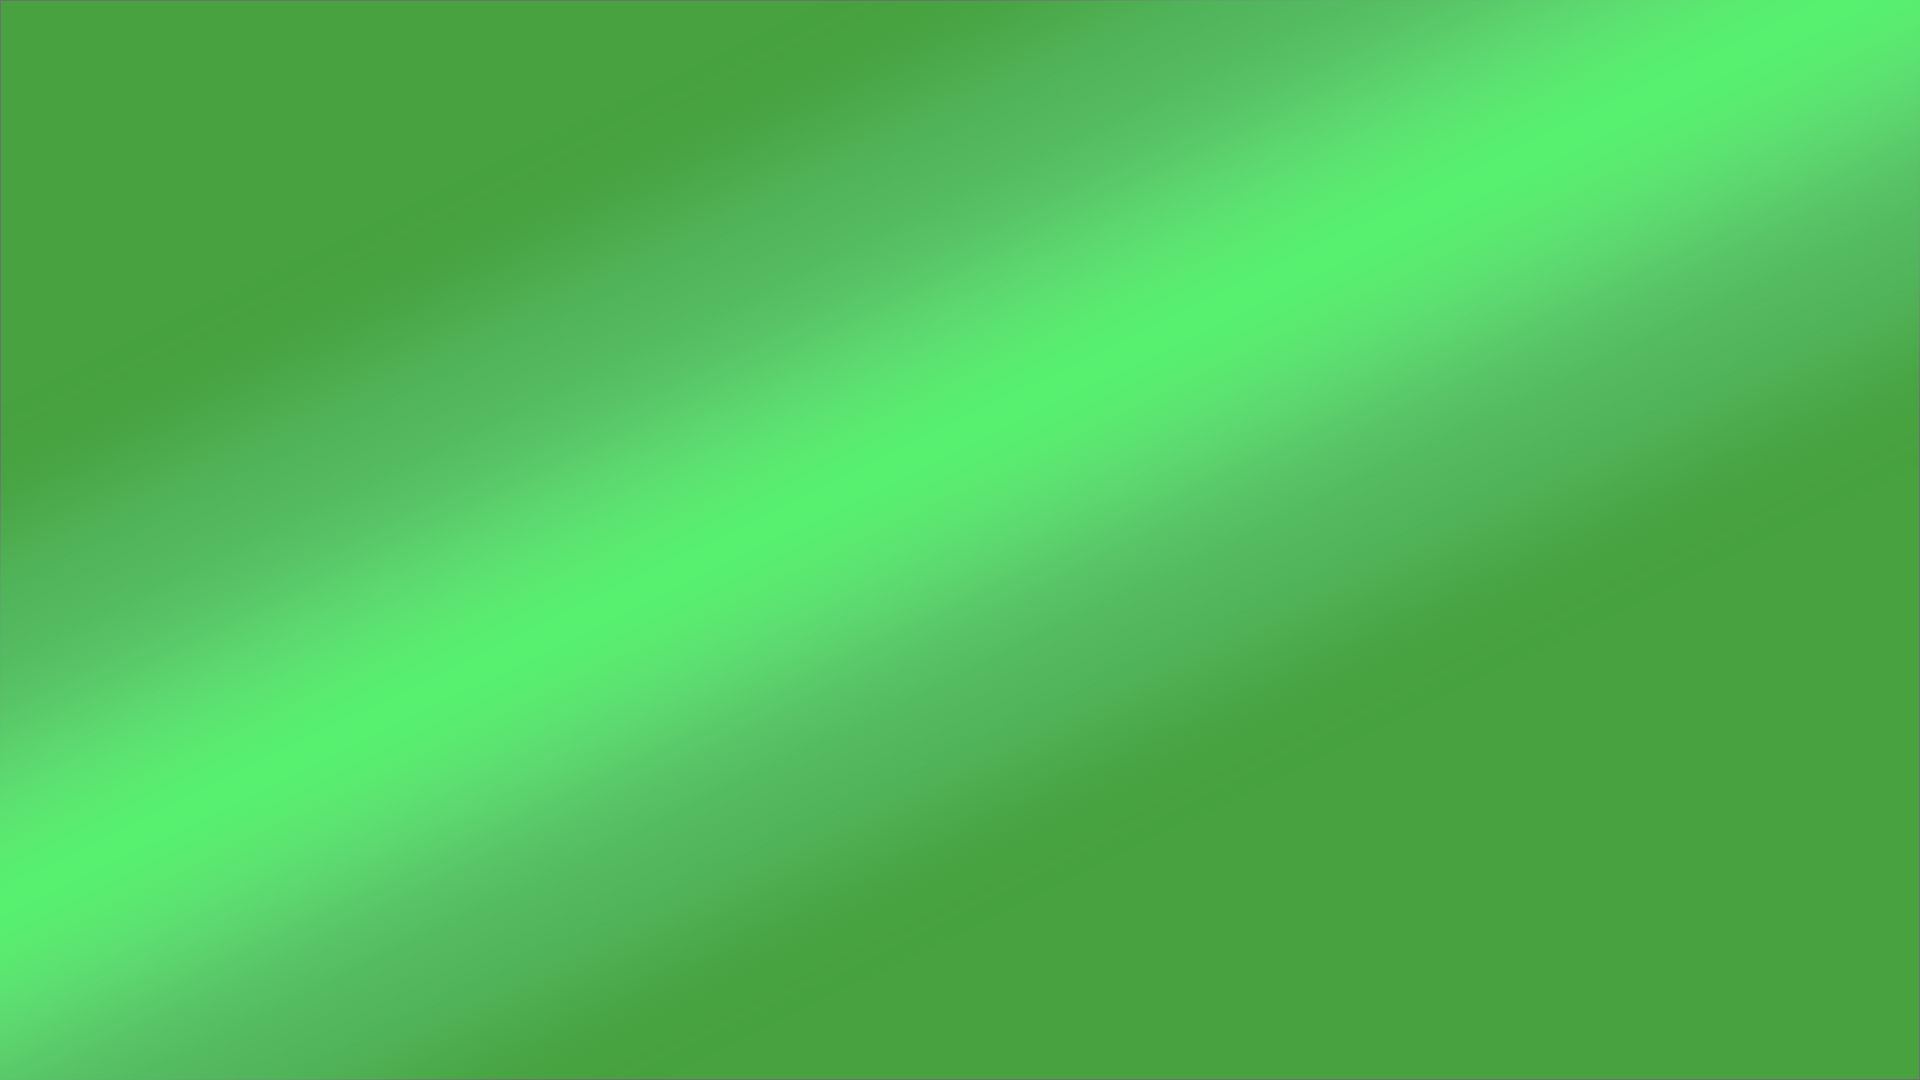
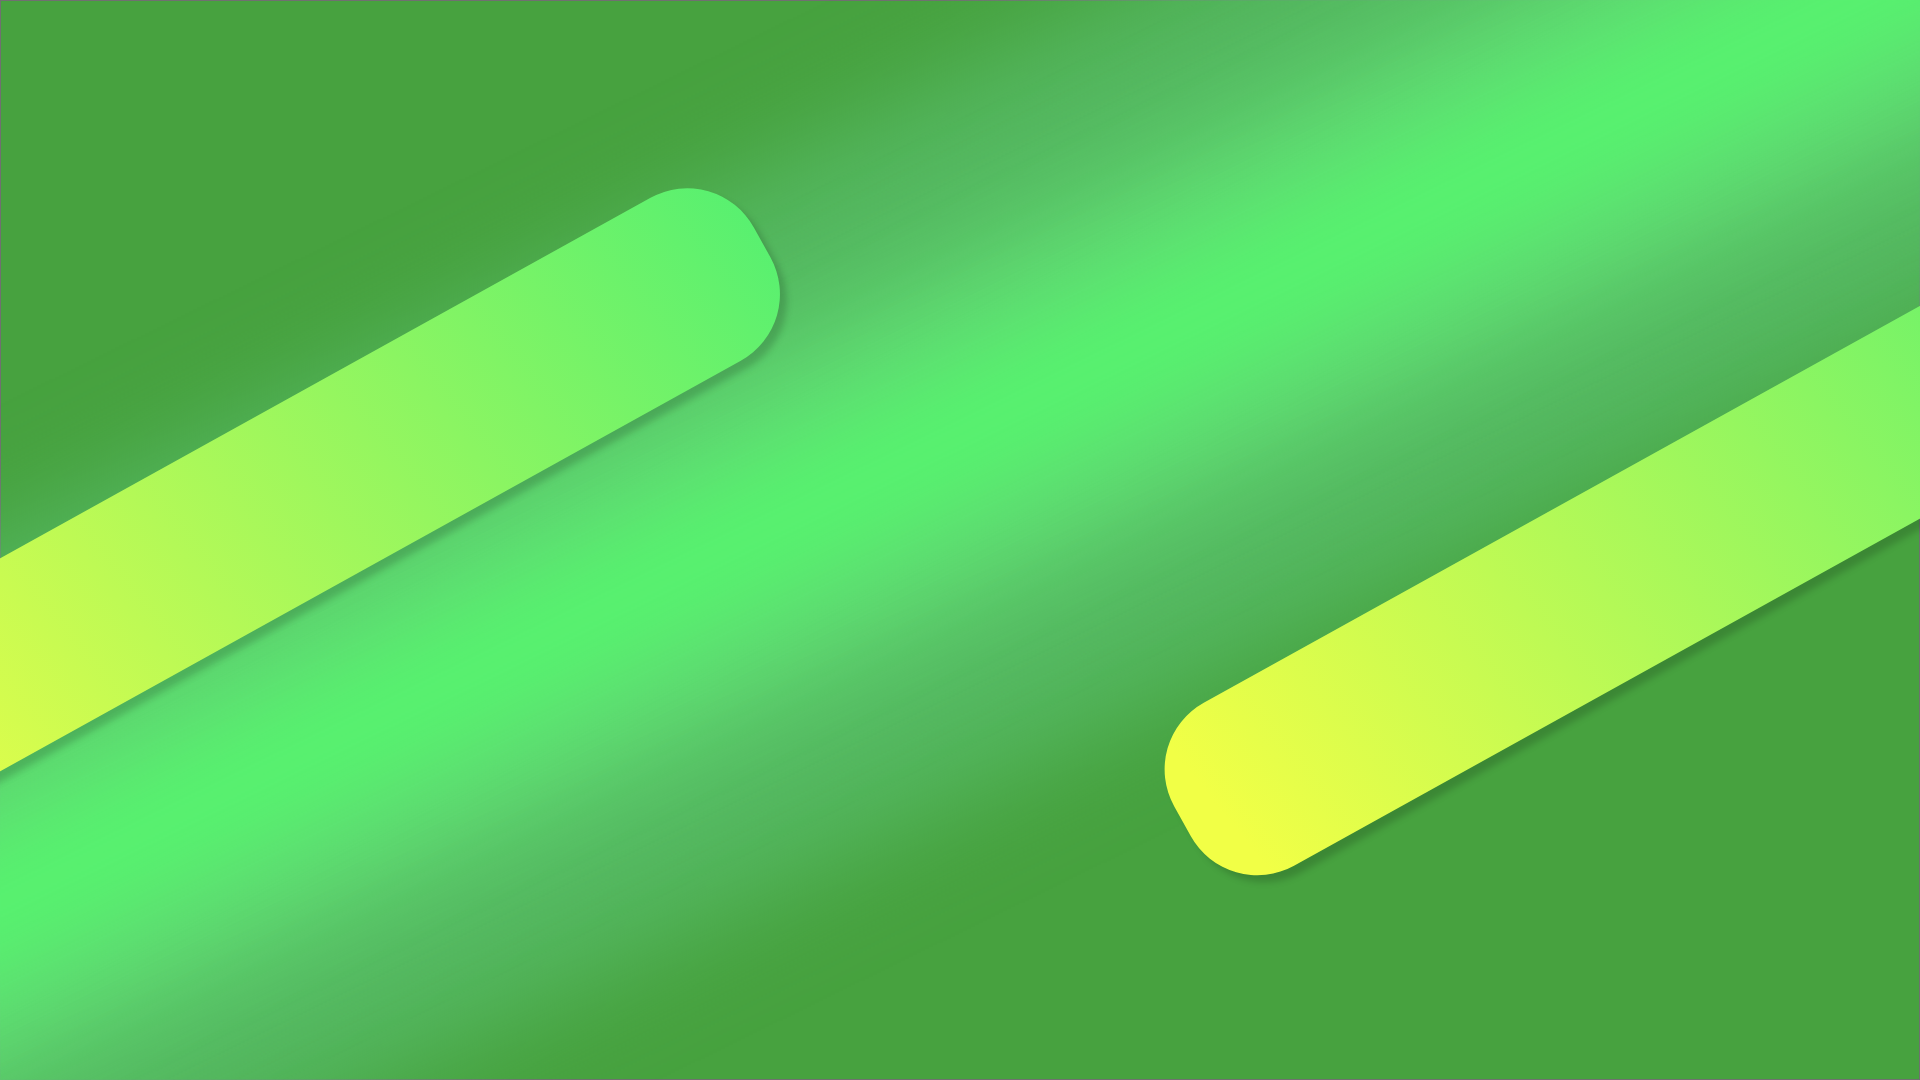
added shadows, fixed copy

Changed region(s): [[0.0, 0.1528, 0.4062, 0.7333], [0.5938, 0.275, 1.0, 0.825]]

diff --git a/index.html b/index.html
@@ -27,7 +27,7 @@
       <div id="hero">
         <h1 class="hero-title">Hi👋, I'm</h1>
         <h1 class="hero-title">Louis Mille.</h1>
-        <p class="subtitle">Shipping amazing web applications for 5 years.</p>
+        <h2>Shipping amazing web applications for 5 years.</h2>
         <div id="hero-buttons">
           <button class="cta-button" href="#home">Hire me 🚀</button>
           <a href="https://github.com/walegg" target="_blank">
@@ -59,8 +59,8 @@
         <h2>M.E.R.N Full Stack Developer</h2>
         <br />
         <p>
-          🚀 Experienced MERN Full-Stack Developer Ready to Elevate Your
-          Projects!🚀
+          🚀 Experienced MERN Full-Stack Developer ready to elevate your
+          projects!🚀
         </p>
         <br />
         <h2>Hello there!</h2>
@@ -72,7 +72,7 @@
           experience, I bring a wealth of knowledge to the table and a track
           record of delivering high-quality solutions.<br /><br />
         </p>
-        <h2>🔧 Technical Skills:</h2>
+        <h2>🔧 Technical skills:</h2>
         <br />
         <ul>
           <li>Frontend: React.js, Redux, HTML5, CSS3, JavaScript (ES6+)</li>
@@ -102,7 +102,7 @@
           </li>
         </ul>
         <br />
-        <h2>🚀 Why Choose Me?</h2>
+        <h2>🚀 Why choose me?</h2>
         <br />
         <ul>
           <li>
@@ -168,7 +168,7 @@
     <section id="footer">
       <div id="footer-elements">
         <h1 id="footer-title" class="section-titles">Collaborate with me</h1>
-        <p class="subtitle">Please contact me via email here</p>
+        <h2>Please contact me via email here</h2>
         <a href="mailto:mille.louis1@gmail.com">
           <button id="send-email" class="cta-button">📩 Send email</button>
         </a>

diff --git a/styles.css b/styles.css
@@ -35,8 +35,9 @@ body {
   height: 100vh;
 }
 
+h1,
 h2 {
-  text-align: center;
+  text-shadow: 2px 2px 4px rgba(0, 0, 0, 0.1);
 }
 
 li {
@@ -65,15 +66,14 @@ nav button a {
   text-decoration: none;
 }
 
-p {
-  text-align: center;
-}
-
 #about-me-content {
-  padding-top: 40px;
+  color: black;
+  background-color: white;
+  margin: 60px auto;
+  padding: 30px 40px;
   width: 800px;
-  margin: auto;
-  font-size: 18px;
+  font-size: 16px;
+  border-radius: 10px;
 }
 
 #about-me {
@@ -181,6 +181,7 @@ p {
   height: 90px;
   margin-right: 10px;
   cursor: pointer;
+  box-shadow: 0px 0px 10px 2px rgba(0, 0, 0, 0.1);
 }
 
 .container {
